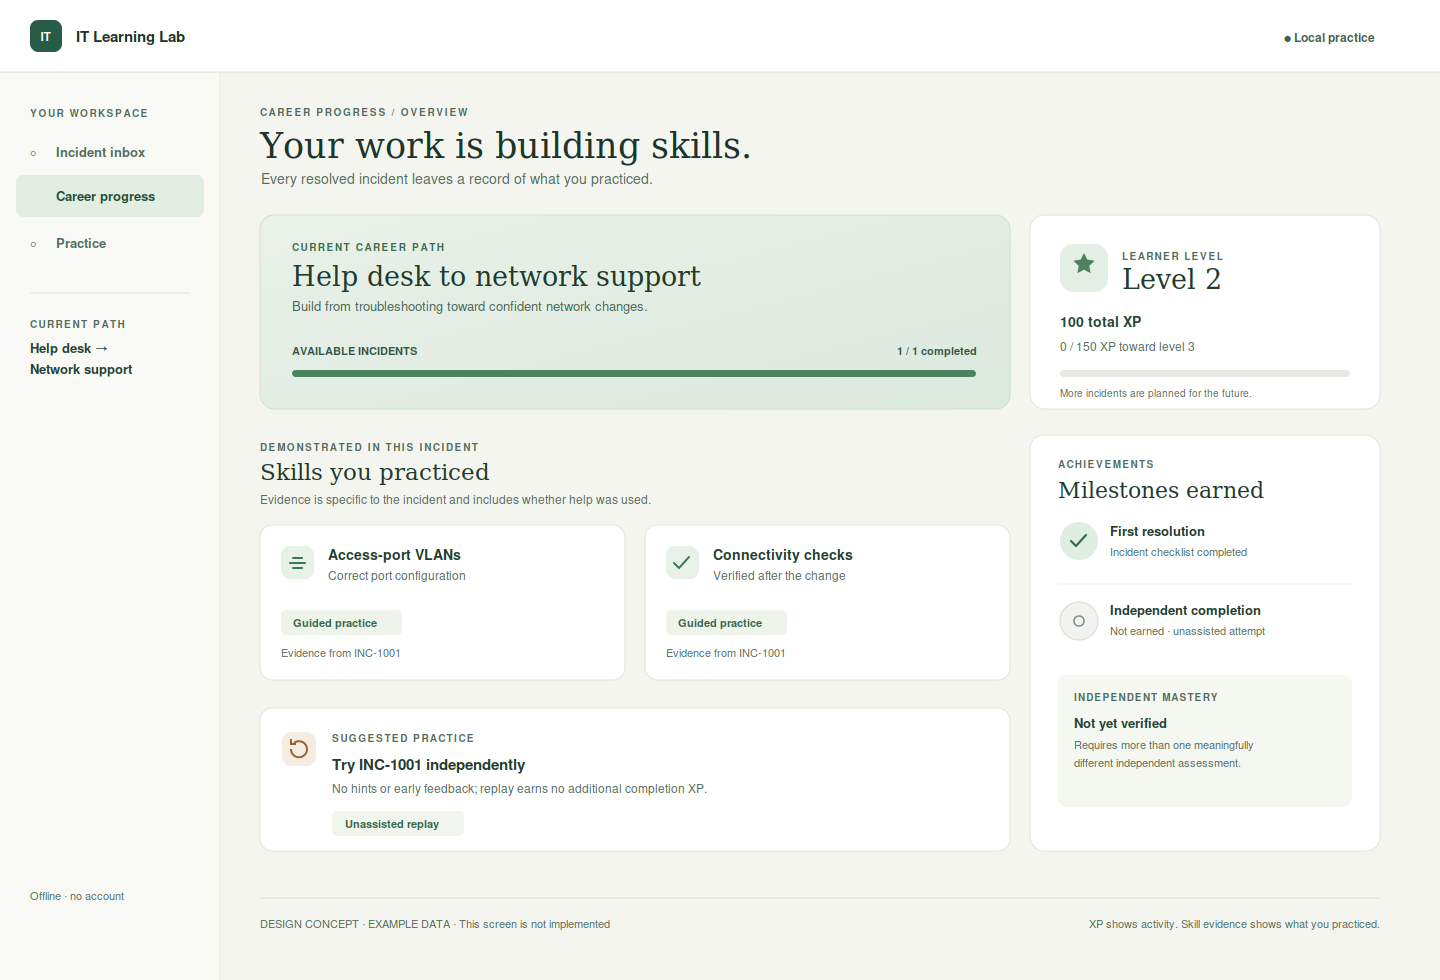
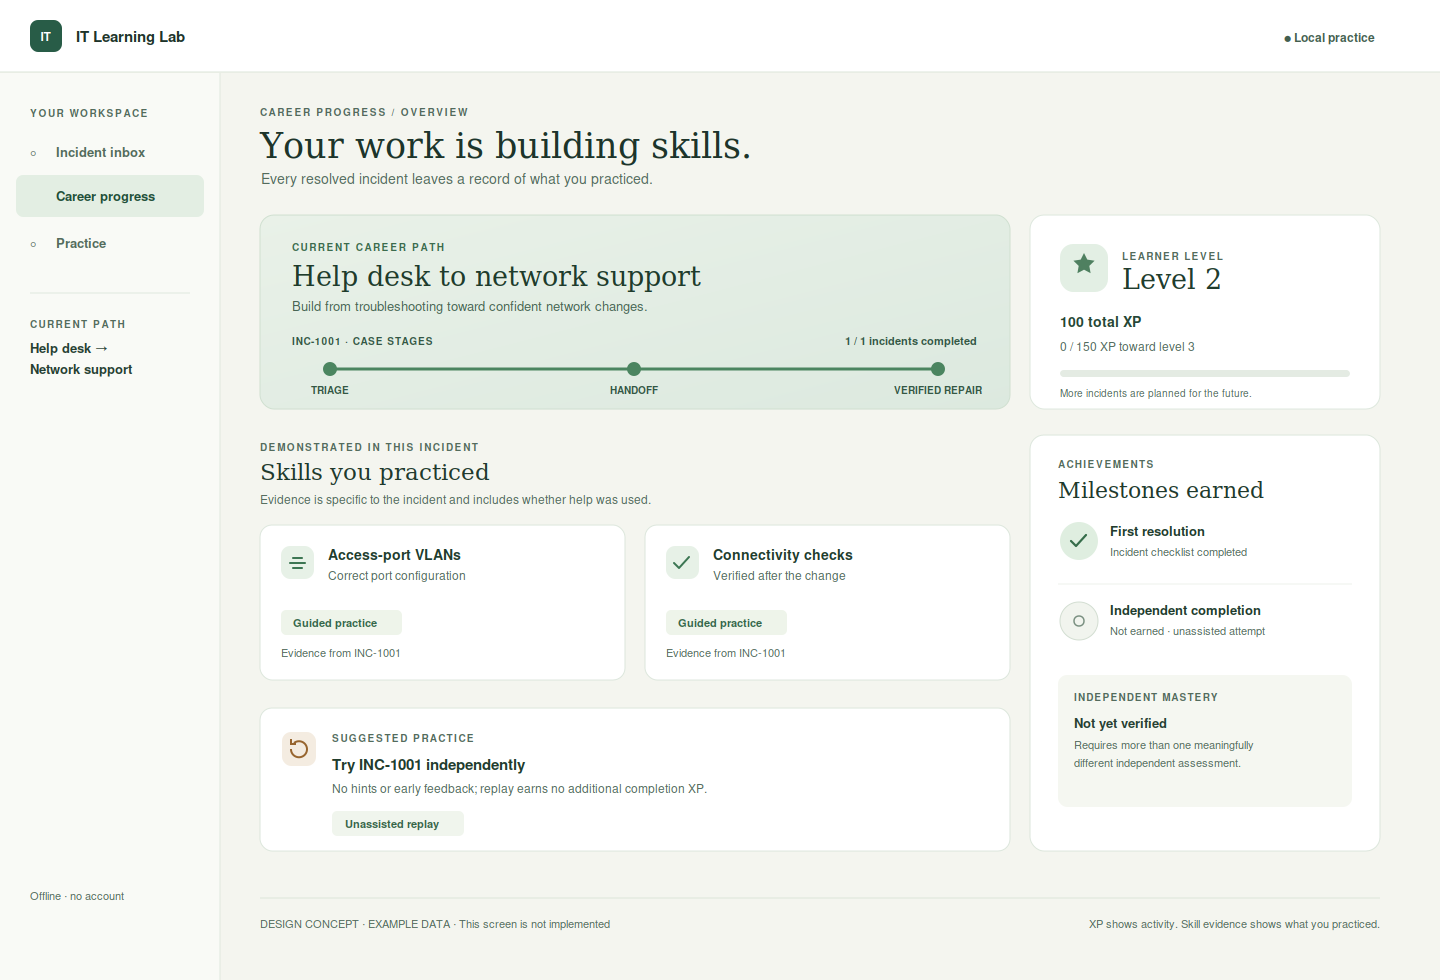
Show the incident journey in the progression concept [skip ci]

Changed region(s): [[0.1875, 0.3367, 0.6875, 0.4286]]

diff --git a/docs/design/serious-gamification.md b/docs/design/serious-gamification.md
@@ -22,6 +22,8 @@ The concept borrows broad ideas from Boot.dev's emphasis on [structured paths an
 
 **Example values for the proposed first implementation:** a first, validated INC-1001 completion awards **100 XP**, whether guided or independent. Level 1 starts at 0 total XP, level 2 at 100, and level 3 at 250; thresholds are illustrative and must be tuned as content grows. Progress toward level 3 after this incident is **0 of 150 XP**, not 100 of 150. Show total XP separately. An unfinished or invalid incident, an individual click, and a reset award 0 XP.
 
+Make the journey tangible through an original **casebook**: a short briefing, visible stages for investigation and handoff, a consequential simulated action, and an after-action debrief. A path can show connected case milestones and the next available assignment, while completed cases remain replayable. The fictional workplace supplies context and continuity; it never supplies proof of competence. With only INC-1001 available, show its actual stages and clearly label later content as future work.
+
 A first completion also earns a **First resolution** achievement, explicitly meaning the incident's current checklist passed. It is not a claim of professional competence. In a later increment, a qualifying unassisted replay may earn **Independent incident completion**, but adds no more XP for that incident. Viewing an incomplete skills report counts as assistance under PR #1's current rule, as do its hints; explain this before the learner opens it. Neither assistance nor mistakes reduce the first completion award, erase progress, or prevent another practice attempt.
 
 ## 2. Local data and versioning
@@ -63,7 +65,7 @@ The broader paths remain Help Desk, Desktop Support, Networking, Systems Adminis
 
 ![Static example of the proposed progression screen](progression-screen.svg)
 
-The concept uses the existing warm neutral and green visual language, clear incident labels and a restrained sense of advancement. The level tile, first-resolution marker and progress line provide feedback; evidence cards separately say **Guided practice**, and mastery is **Not yet verified**. The replay card explicitly says it earns no additional completion XP. It shows sample data for illustration and is not an interactive feature or a claim that future missions exist.
+The concept uses the existing warm neutral and green visual language, a connected case-stage path, clear incident labels and a restrained sense of advancement. The level tile, first-resolution marker and progress line provide feedback; evidence cards separately say **Guided practice**, and mastery is **Not yet verified**. The replay card explicitly says it earns no additional completion XP. It shows sample data for illustration and is not an interactive feature or a claim that future missions exist.
 
 Support keyboard navigation and visible focus, text labels alongside color/icons, scalable text, reduced motion, and a subdued presentation that removes celebratory animation and deemphasizes XP without hiding assessment feedback. Never require animation, audio or color to understand state. No paid currencies, randomized rewards, gambling, punitive streaks, mandatory leaderboards, accounts or monetization.
 

diff --git a/PRODUCT_SPEC.md b/PRODUCT_SPEC.md
@@ -35,7 +35,7 @@ The project is NOT another generic LMS, unrestricted desktop virtualization stac
 
 ## Career progression and serious gamification — proposed
 
-IT Learning Lab is a fictional workplace where learners progress through realistic incidents. Visible XP, levels, achievements and career-path milestones should make sustained practice rewarding. They must remain separate from evidence of skill: points measure participation; technical competence comes from deterministic assessment of relevant simulated actions, state and verification. Hints are a normal part of instruction and never reduce completion XP or prevent normal learning progression.
+IT Learning Lab is a fictional workplace where learners progress through realistic incidents. A casebook of connected incident stages, visible XP, levels, achievements and career-path milestones should make sustained practice rewarding. They must remain separate from evidence of skill: points measure participation; technical competence comes from deterministic assessment of relevant simulated actions, state and verification. Hints are a normal part of instruction and never reduce completion XP or prevent normal learning progression.
 
 A successful unassisted attempt may be recognized as an **independent incident completion**, but replaying a familiar incident is not sufficient evidence of mastery. Future independent mastery requires multiple meaningfully different, validated assessments. Competency evidence is shared across career paths by stable skill identifiers rather than duplicated per path. Replay should help maintain skills without repeatedly awarding completion XP. Progress remains local and offline, with no accounts, paid currencies, gambling mechanics, punitive streaks or required leaderboards.
 
